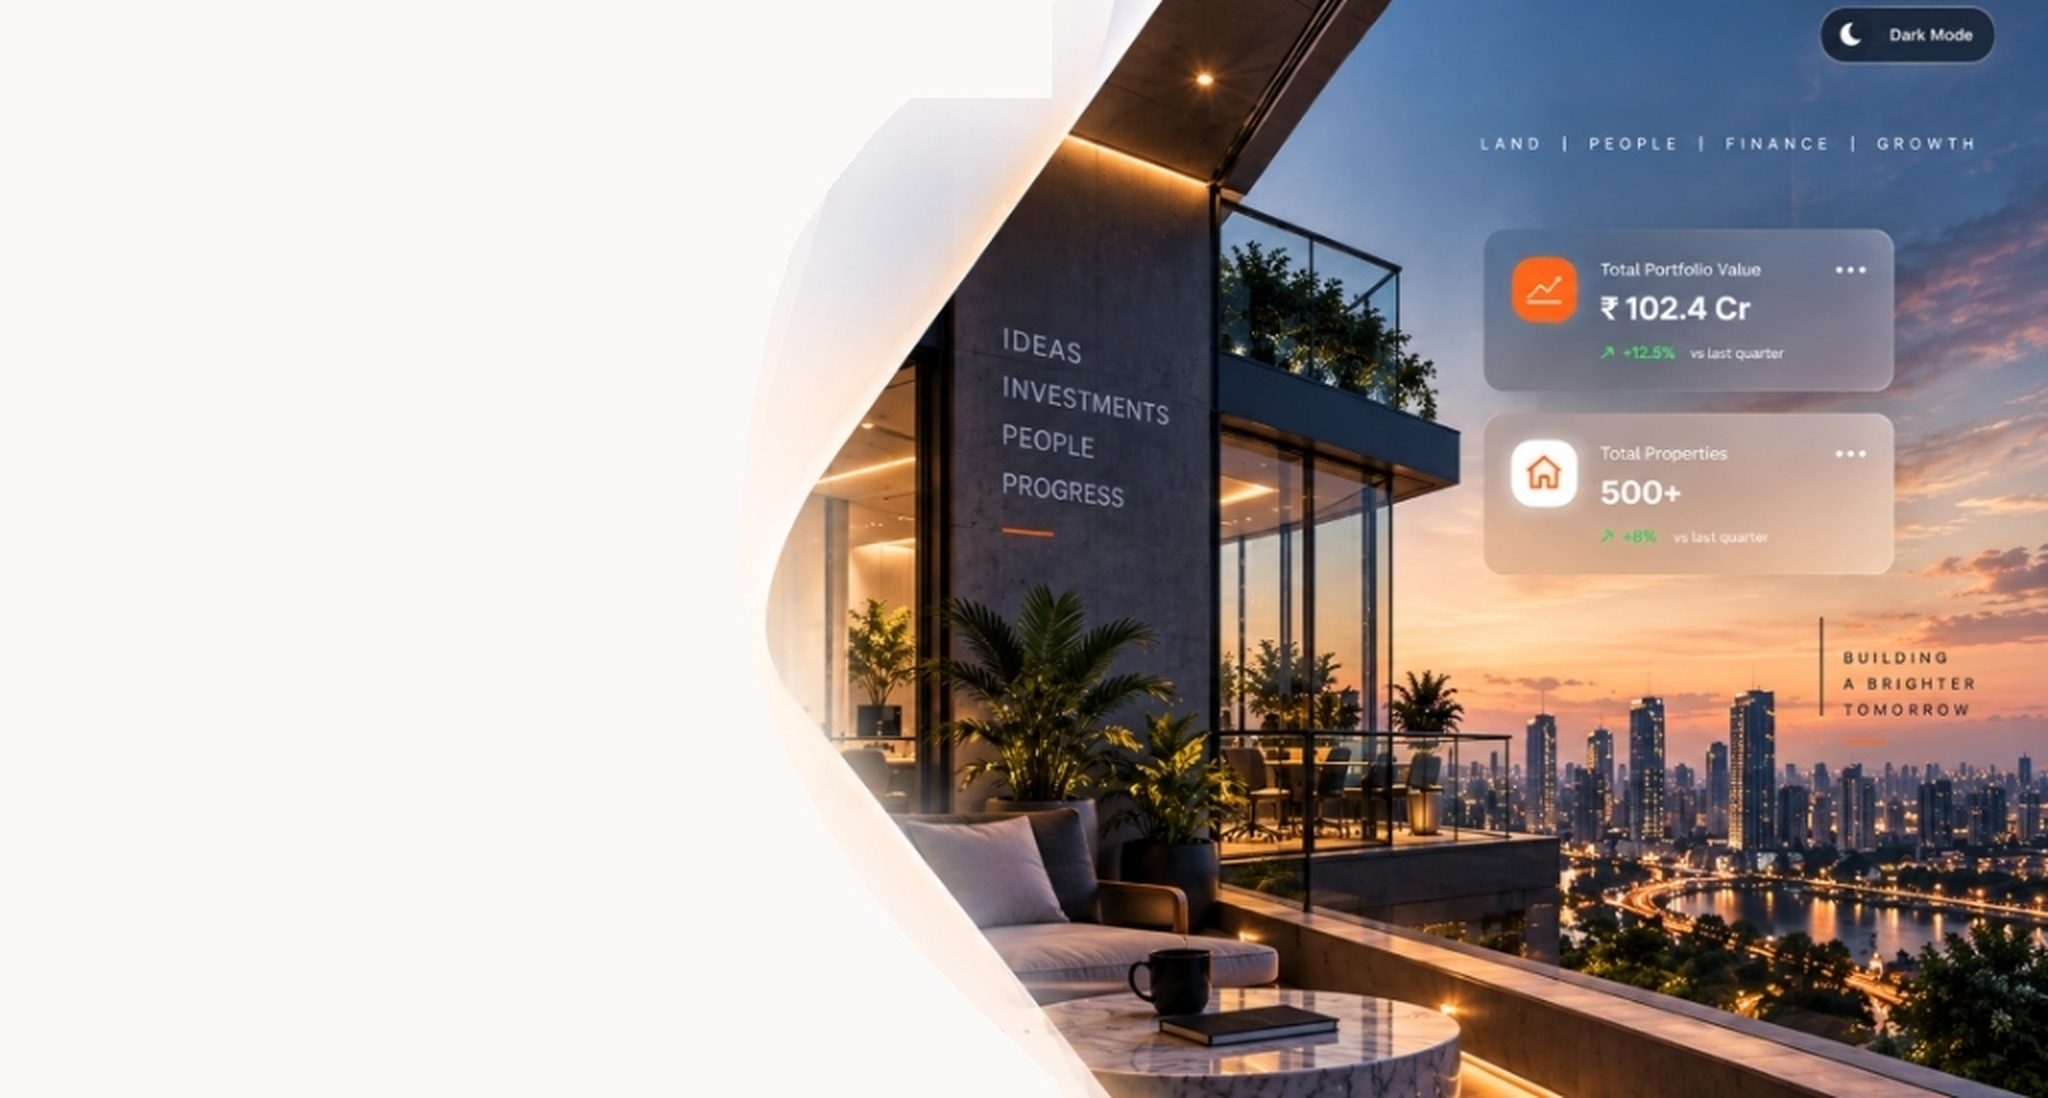
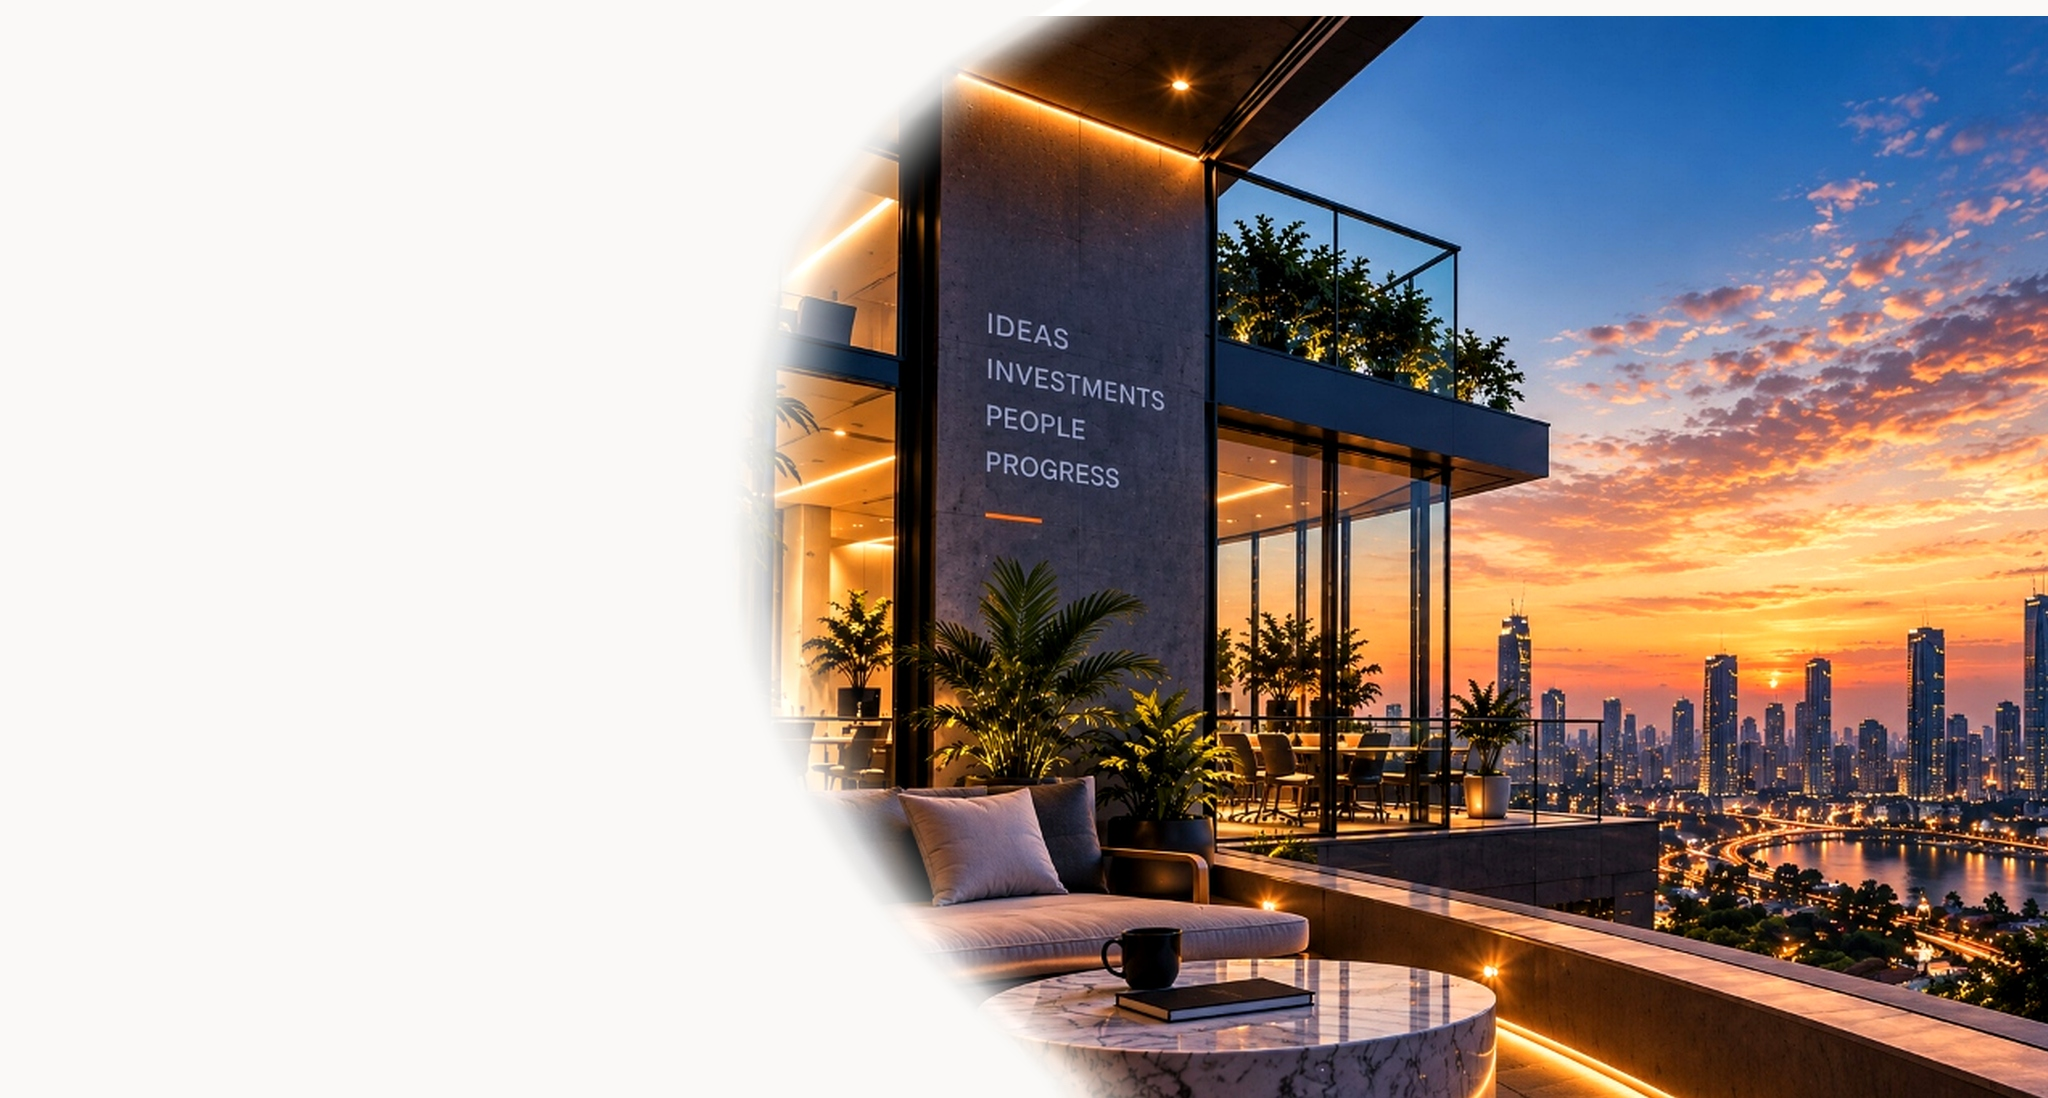
feat: add landing page and hero composite background asset

diff --git a/frontend/src/app/page.tsx b/frontend/src/app/page.tsx
@@ -9,6 +9,7 @@ import {
   Users,
   Layers,
   Home,
+  MoreHorizontal,
   Moon,
   Sun,
   Menu,
@@ -376,20 +377,82 @@ export default function LandingPage() {
               </div>
             </div>
 
-            {/* Desktop Invisible Interactive Click Hotspots for the 2 Metric Cards */}
-            <div className="hidden lg:flex flex-col items-end space-y-4 my-auto pr-1 xl:pr-6 pointer-events-auto">
+            {/* Desktop Top Right Label */}
+            <div className="hidden lg:flex justify-end pr-2 pt-0.5 select-none">
+              <span className="text-[10px] xl:text-[11px] font-extrabold tracking-[0.24em] text-white/95 uppercase drop-shadow-md">
+                LAND &nbsp;|&nbsp; PEOPLE &nbsp;|&nbsp; FINANCE &nbsp;|&nbsp; GROWTH
+              </span>
+            </div>
+
+            {/* Desktop Floating Glassmorphic Metric Cards */}
+            <div className="hidden lg:flex flex-col items-end space-y-3.5 my-auto pr-1 xl:pr-5 select-none pointer-events-auto">
+              
+              {/* Metric Card 1: Total Portfolio Value (Dark Frosted Glass) */}
               <Link
                 href="/dashboards"
-                title="View Portfolio Analytics"
-                className="w-full max-w-[260px] xl:max-w-[280px] h-[95px] rounded-2xl transition duration-200 hover:ring-2 hover:ring-orange-400/50 cursor-pointer"
-                aria-label="Navigate to Total Portfolio Value Dashboard"
-              />
+                className="w-full max-w-[265px] xl:max-w-[280px] bg-slate-900/65 backdrop-blur-md border border-white/25 rounded-2xl p-3.5 sm:p-4 text-white shadow-[0_16px_36px_rgba(0,0,0,0.35)] hover:-translate-y-1 hover:border-orange-400/50 transition duration-200 group block"
+              >
+                <div className="flex items-center justify-between">
+                  <div className="flex items-center gap-2">
+                    <div className="w-7 h-7 rounded-lg bg-[#ff6b12] flex items-center justify-center text-white shadow-xs">
+                      <TrendingUp className="w-3.5 h-3.5" />
+                    </div>
+                    <span className="text-[11.5px] font-semibold text-slate-300 tracking-wide">
+                      Total Portfolio Value
+                    </span>
+                  </div>
+                  <MoreHorizontal className="w-4 h-4 text-slate-400 group-hover:text-white transition-colors" />
+                </div>
+
+                <div className="mt-2 text-xl xl:text-2xl font-black text-white font-digital tracking-tight">
+                  ₹ 102.4 Cr
+                </div>
+
+                <div className="mt-1 flex items-center gap-1.5 text-[11px] font-bold text-emerald-400">
+                  <span>↗ +12.5%</span>
+                  <span className="text-[10px] text-slate-400 font-normal">vs last quarter</span>
+                </div>
+              </Link>
+
+              {/* Metric Card 2: Total Properties (Light Frosted Glass) */}
               <Link
                 href="/dashboards"
-                title="View Properties Management"
-                className="w-full max-w-[260px] xl:max-w-[280px] h-[95px] rounded-2xl transition duration-200 hover:ring-2 hover:ring-orange-400/50 cursor-pointer"
-                aria-label="Navigate to Total Properties Dashboard"
-              />
+                className="w-full max-w-[265px] xl:max-w-[280px] bg-white/80 backdrop-blur-md border border-white/70 rounded-2xl p-3.5 sm:p-4 text-slate-800 shadow-[0_16px_36px_rgba(0,0,0,0.22)] hover:-translate-y-1 hover:border-orange-400/60 transition duration-200 group block"
+              >
+                <div className="flex items-center justify-between">
+                  <div className="flex items-center gap-2">
+                    <div className="w-7 h-7 rounded-lg bg-orange-100/90 border border-orange-200 text-[#ff6b12] flex items-center justify-center shadow-xs">
+                      <Home className="w-3.5 h-3.5" />
+                    </div>
+                    <span className="text-[11.5px] font-semibold text-slate-600 tracking-wide">
+                      Total Properties
+                    </span>
+                  </div>
+                  <MoreHorizontal className="w-4 h-4 text-slate-400 group-hover:text-slate-800 transition-colors" />
+                </div>
+
+                <div className="mt-2 text-xl xl:text-2xl font-black text-slate-900 tracking-tight">
+                  500+
+                </div>
+
+                <div className="mt-1 flex items-center gap-1.5 text-[11px] font-bold text-emerald-600">
+                  <span>↗ +8%</span>
+                  <span className="text-[10px] text-slate-500 font-normal">vs last quarter</span>
+                </div>
+              </Link>
+            </div>
+
+            {/* Desktop Lower Right Brand Statement */}
+            <div className="hidden lg:flex items-center gap-2.5 self-end pr-2 pb-0.5 select-none">
+              <div className="w-[2px] h-9 bg-slate-900/70 rounded-full" />
+              <div className="flex flex-col">
+                <span className="text-[9.5px] font-black tracking-[0.22em] text-slate-900 uppercase leading-snug drop-shadow-xs">
+                  BUILDING<br />
+                  A BRIGHTER<br />
+                  TOMORROW
+                </span>
+                <span className="w-7 h-[2px] bg-[#ff6b12] rounded-full mt-1 inline-block" />
+              </div>
             </div>
 
           </div>
